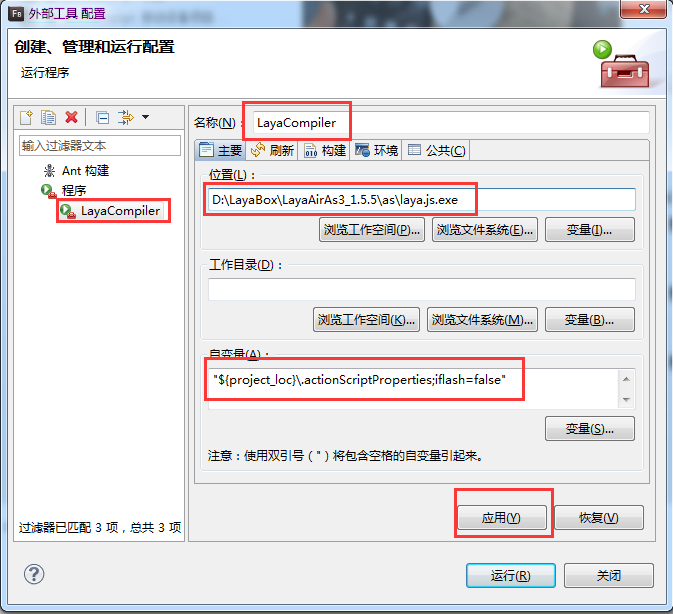
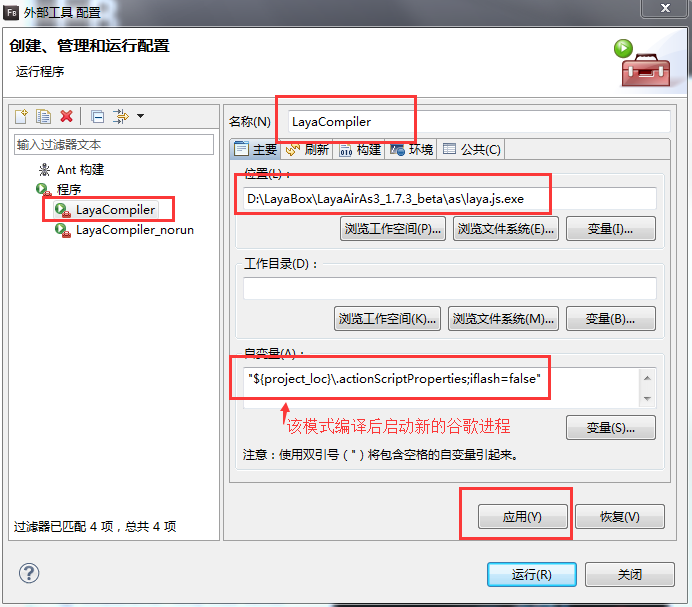
文档更新

Changed region(s): [[0.0, 0.0, 1.0, 1.0]]

diff --git a/Chinese/LayaAir_AS3/2D/beginners/basic/FlashBuilder_DevelopmentEnvironment/readme.md b/Chinese/LayaAir_AS3/2D/beginners/basic/FlashBuilder_DevelopmentEnvironment/readme.md
@@ -4,20 +4,27 @@
 
 #### 1.1 引擎下载
 
-     使用LayaAirIDE开发的话，下载LayaAirIDE会自带引擎包。若开发者使用第三方工具开发，那需要先下载引擎。在官网首页或者开发者中心菜单中，拥有引擎下载的链接入口，打开链接后会出现引擎各个版本的下载列表，每一个版本均提供AS3、TS、JS三种开发语言，选择对应的开发语言包，直接点击下载即可(http://ldc.layabox.com/index.php?m=content&c=index&a=lists&catid=28)。 
+     使用LayaAirIDE开发的话，下载LayaAirIDE会自带引擎包。若开发者使用第三方工具开发，那需要先下载引擎。在官网首页或者开发者中心菜单中，拥有引擎下载的链接入口，打开链接后会出现引擎各个版本的下载列表，每一个版本均提供AS3、TS、JS三种开发语言，选择对应的开发语言包，直接点击下载即可。 
 
 #### 1.2 引擎包目录结构介绍  
 
 我们下载AS3版本的引擎包。当下载解压后，可以看到AS3版本的目录结构如下图所示：
 
-    ![1.jpg](img/1.jpg)<br/>
-   图（1） 
+![图1](img/1.png) <br/>  （图1） 
+
 - “LayaAirFlash”目录内是发布Flash的版本才需要的引擎库代码。
+
 - “libs”引擎代码目录，LayaAir引擎库代码处于该目录的src子目录中。
+
 - “laya.js.exe”为Windows系统下的AS3代码编译器，用于将AS3代码编译为JS代码。
+
 - “LayaJSMac”为苹果MAC系统下的AS3代码编译器，用于将AS3代码编译为JS代码。
+
 - “playerglobal.swc”用于替换AS3原生编译器SDK，去除原生API语法提示，增加引擎API提示。 
-- 
+
+- "worker.js"，指定worker.js路径，可以开启使用WorkerLoader来加载解码图片的功能，起到优化加载优化的作用，具体使用查看相关文档。
+
+  
 
 ### 第二步 安装Google Chrome浏览器
 
@@ -27,26 +34,36 @@
 
 ### 第三步 配置Flash Builder中的AS3编译环境
 
-    步骤一：打开Flash Builder，找到“外部工具 配置”并打开该配置窗口。
+**    步骤一**：打开Flash Builder，找到“外部工具 配置”并打开该配置窗口。
 
     ![2.jpg](img/2.jpg)<br/>
   图（2）  
 
 
-    步骤二：在配置窗口内，右键选中“程序”，点击“新建”，打开新建配置窗口。
+**    步骤二**：在配置窗口内，右键选中“程序”，点击“新建”，打开新建配置窗口。
 
     ![3.jpg](img/3.jpg)<br/>
    图（3） 
 
-    步骤三：首先修改外部程序名称为“LayaCompiler”。然后点击“浏览文件系统”找到“laya.js.exe”或者直接复制”laya.js.exe”的路径粘贴到“位置”输入栏。最后在“自变量”栏里输入"${project_loc}\.actionScriptProperties;iflash=false"，点击”应用“即可完成本次配置。
 
-    ![4.jpg](img/4.png)<br/>
-  图（4）  
 
-    ![1.gif](gif/1.gif)<br/>
-   动图（1） 
+**步骤三**：
 
-**Tips：“D:\LayaBox\LayaAirAs3_1.5.5\as\laya.js.exe”应为laya.js.exe的实际所在路径。MAC系统下为“D:\LayaBox\LayaAirAs3_1.5.5\as\LayaJSMac”**
+首先修改外部程序名称为“`LayaCompiler`”。
+
+然后点击“浏览文件系统”找到“`laya.js.exe`”或者直接复制”`laya.js.exe`”的路径粘贴到“位置”输入栏。
+
+最后在“自变量”栏里输入`"${project_loc}\.actionScriptProperties;iflash=false"`，点击”应用“即可完成本次配置。
+
+如果我们不想每次编译都启动一个新的谷歌浏览器进程，按刚才的配置方式再次创建一个外部程序，仅需将自变量参数改为`"${project_loc}\.actionScriptProperties;iflash=false;chromerun=false;"`如图4、图5所示。
+
+![4](img/4.png)<br />  （图4）
+
+![图5](img/5.png) <br/> (图5)
+
+ 
+
+**Tips：“D:\LayaBox\LayaAirAs3_1.7.3_beta\as\laya.js.exe”应为laya.js.exe的实际所在路径。MAC系统下为“D:\LayaBox\LayaAirAs3_1.5.5\as\LayaJSMac”**
 
 
 
